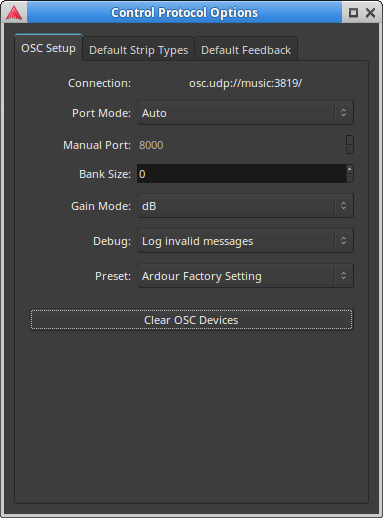
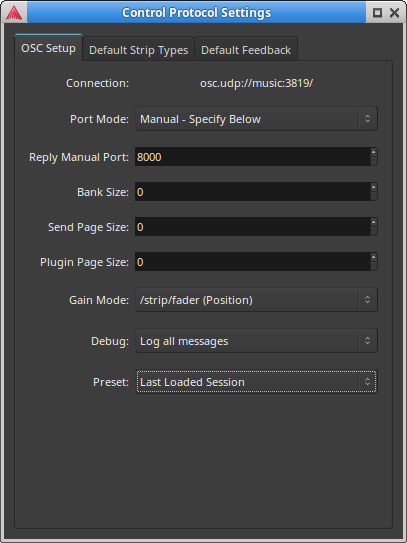
OSC: add new GUI changes post 5.10

diff --git a/include/osc58-using-the-setup-dialog.html b/include/osc58-using-the-setup-dialog.html
@@ -12,13 +12,15 @@
   Many OSC devices get their IP from a DHCP making it difficult to set
   an IP in Ardour's OSC settings. Therefore, most of the settings are
   <em>default</em> settings. Values are set and the next OSC surface to
-  send a /set_surface* message to Ardour will use those settings. An OSC
+  send an OSC message to Ardour will use those settings. An OSC
   surface that has previously sent a message to Ardour will retain the
-  settings it already had. The <em>Clear OSC Devices</em> will reset all
-  device settings. A <em>/refresh</em> message will both reset the
-  device settings as well as set that device to any new settings. The
-  Use of <em>/set_surface</em> will override all settings except
-  <em>Port Mode</em>.
+  settings it already had. Any change to a setting will reset all
+  device settings. A <em>/refresh</em> message will set that device to
+  any new settings. The use of <em>/set_surface</em> will override all
+  settings except <em>Port Mode</em>. <em>Port Mode</em> affects all
+  connected surfaces and so all surfaces must use either the set manual
+  port or send OSC messages from the same port they expect to receive
+  feedback on.
 </p>
 <h2>Dialog settings</h2>
 <h3>OSC setup tab</h3>
@@ -30,8 +32,15 @@
 <p>
   This field is informational only. It shows where Ardour will receive
   OSC messages. The system Name and the Port are the most important parts.
+  Normally, Ardour will use 3819 as it's server port. However, if some
+  other server is already using this port, Ardour will try to use the next
+  port up and will keep trying up to 10 ports up.
 </p>
 <h4>Port Mode:</h4>
+<p>
+<img alt="Port Mode Dropdown"
+     src="/images/osc-portmode.png">
+</p>
 <p>
   This drop down allows the choice of Auto or Manual outbound port
   setting. The default Auto port mode, will send OSC messages back to
@@ -55,35 +64,67 @@
   This sets the default bank size for the next surface to send a
   <em>/set_surface/*</em> OSC message. Bank size 0 (the default) sets
   no banking and allows controlling all strips included in strip_types
-  at once.
+  at once. The entry area will be bright blue for a port that is not
+  valid (ports below 1024 or 3819).
+</p>
+<h4>Send Page Size:</h4>
+<p>
+	This allows setting the size of pages for sends. In the case there are
+	more sends than controls. A size of 0 is the same as no paging and
+	all sends are directly controllable.
+</p>
+<h4>Plugin Page Size:</h4>
+<p>
+	This allows setting the size of pages for plugin controls. Some
+	plugins have hundreds of controls and so it may be necessary to page
+	the plugin controls to a limited number of physical controls. A size
+	of 0 is the same as no paging and all plugin controls are directly
+	controllable.
 </p>
 <h4>Gain Mode:</h4>
+<p>
+<img alt="Gain Mode Dropdown"
+     src="/images/osc-gainmode.png">
+</p>
 <p>
   Sets the faders (and sends faders) feedback math to position where a
   value between 0 and 1 represents the fader position of the same fader
   in the mixer GUI or dB where the feedback from fader movement will be
   returned as a dB value. When the Gain Mode is set to position, the
   /*/name feedback for the channel will show dB values in text while the
-  fader is being adjusted and then return the the name text.
+  fader is being adjusted and then return the name text.
 </p>
 <h4>Debug:</h4>
 <p>
-  For debugging purposes this allows logging either good OSC messages
+<img alt="Debug Mode Dropdown"
+     src="/images/osc-debug.png">
+</p>
+<p>
+  For debugging purposes this allows logging either all OSC messages
   Ardour receives or invalid messages received or none.
 </p>
 <h4>Preset:</h4>
+<p>
+<img alt="Preset Loader"
+     src="/images/osc-preset.png">
+</p>
 <p>
   Ardour now allows the use of preset settings. The default settings
   used are the settings from the last session or the factory defaults
   the first time OSC is enabled. As soon as any of these settings are
   changed, the Preset will change to "User" and the new settings will be
-  save to the osc directory Ardour configuration directory as
+  save to the osc directory in the
+  <a href="@@files-and-directories">Ardour configuration directory</a> as
   <em>user.preset</em>. This preset file can be renamed for future use.
   It is suggested to also change the name value inside to avoid confusion
   in the preset listing. Ardour will ship with some of it's own presets
   that go with some popular OSC control and map combinations.
 </p>
 <h4>Clear OSC Devices</h4>
+<p class="note">
+	This button has been removed after Ardour 5.10. Instead this action
+	is triggered by any change in the settings.
+</p>
 <p>
   This button clears operating device profiles so that Ardour will reset
   all devices settings to use the new defaults from changed settings. a
